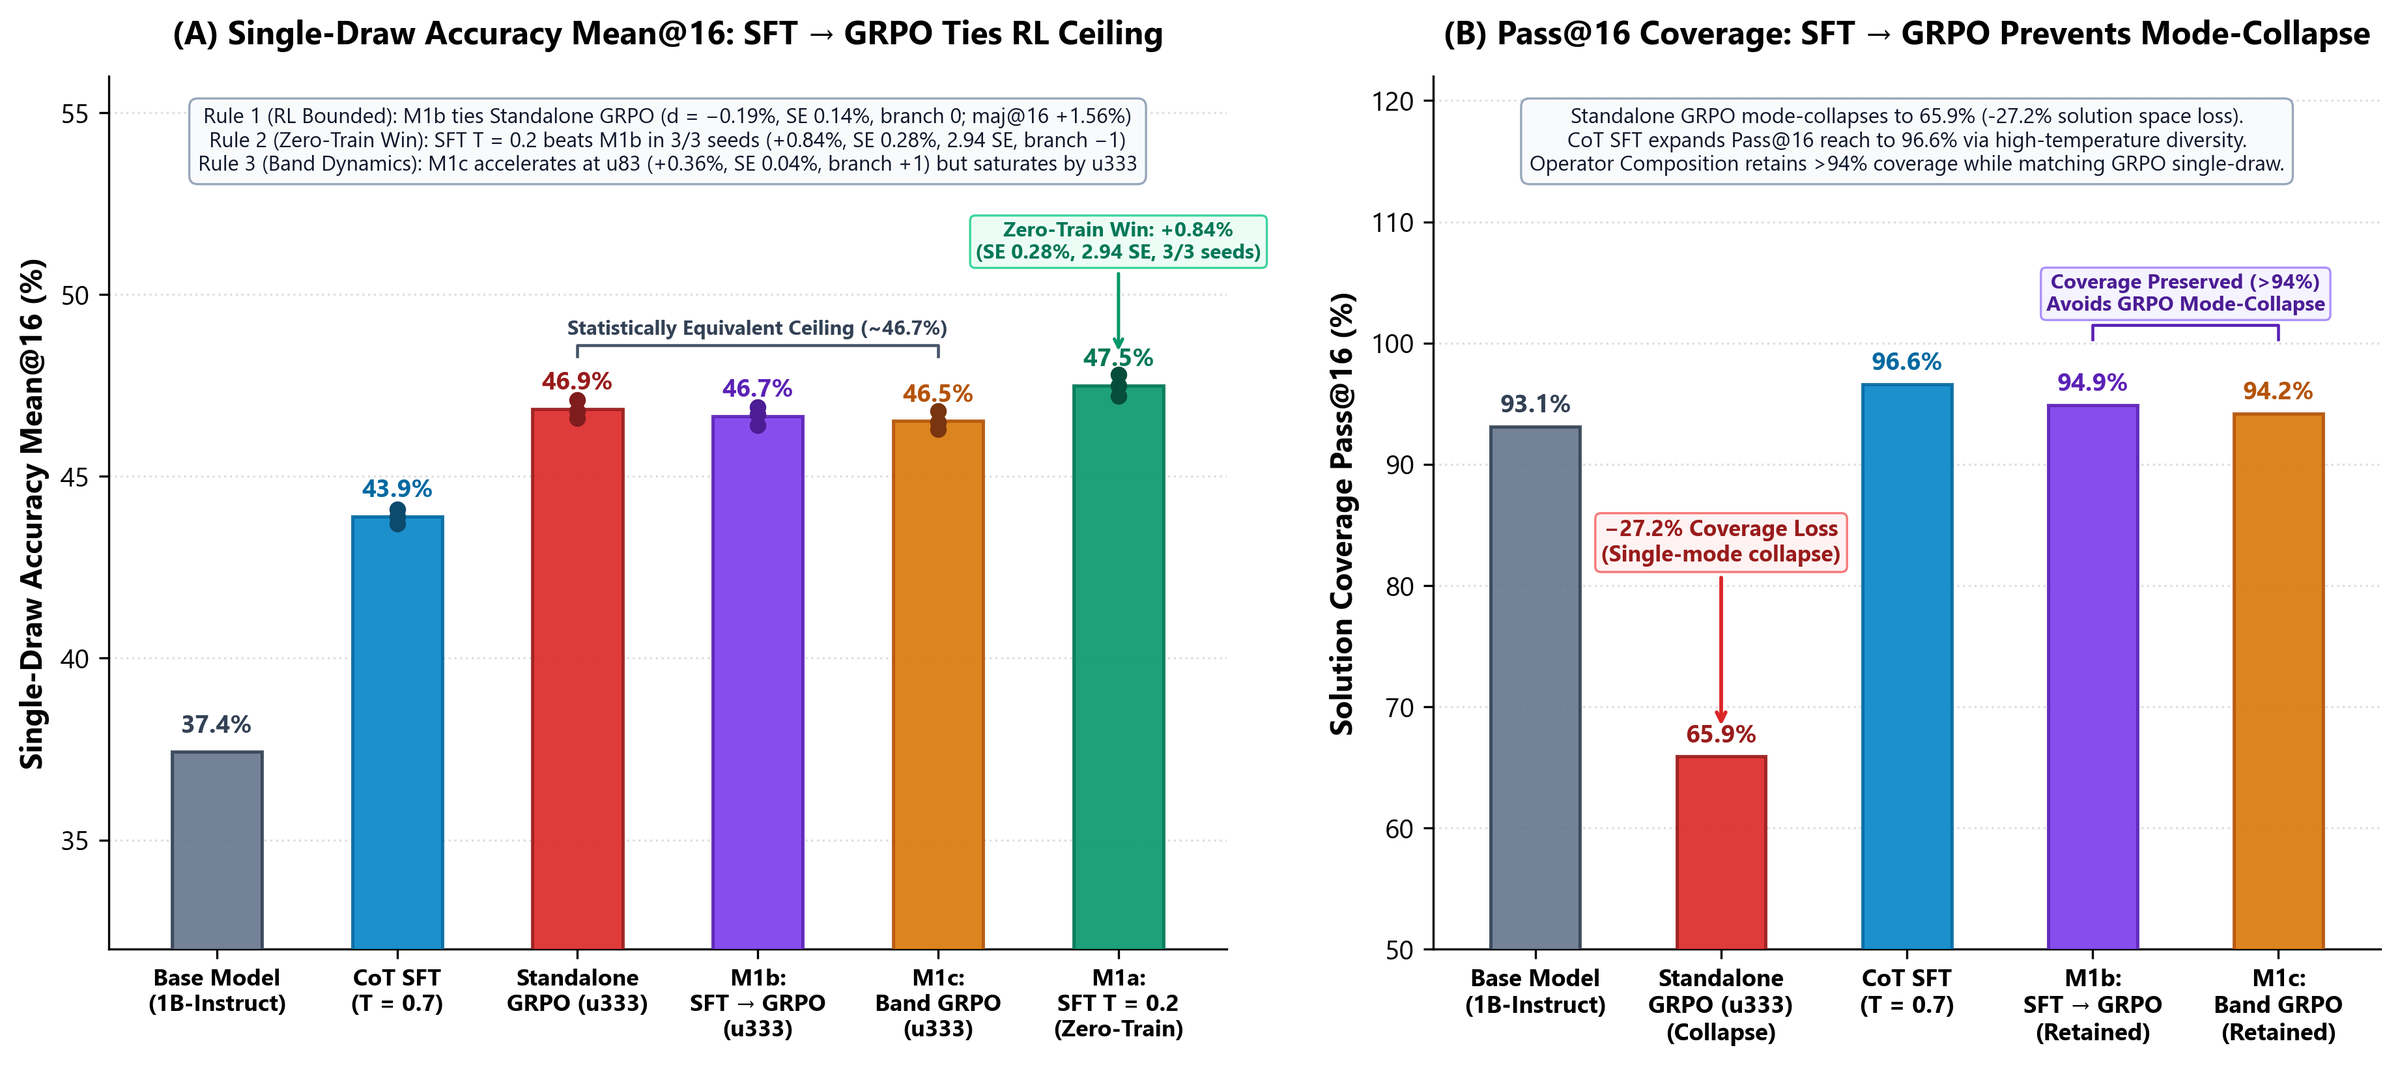
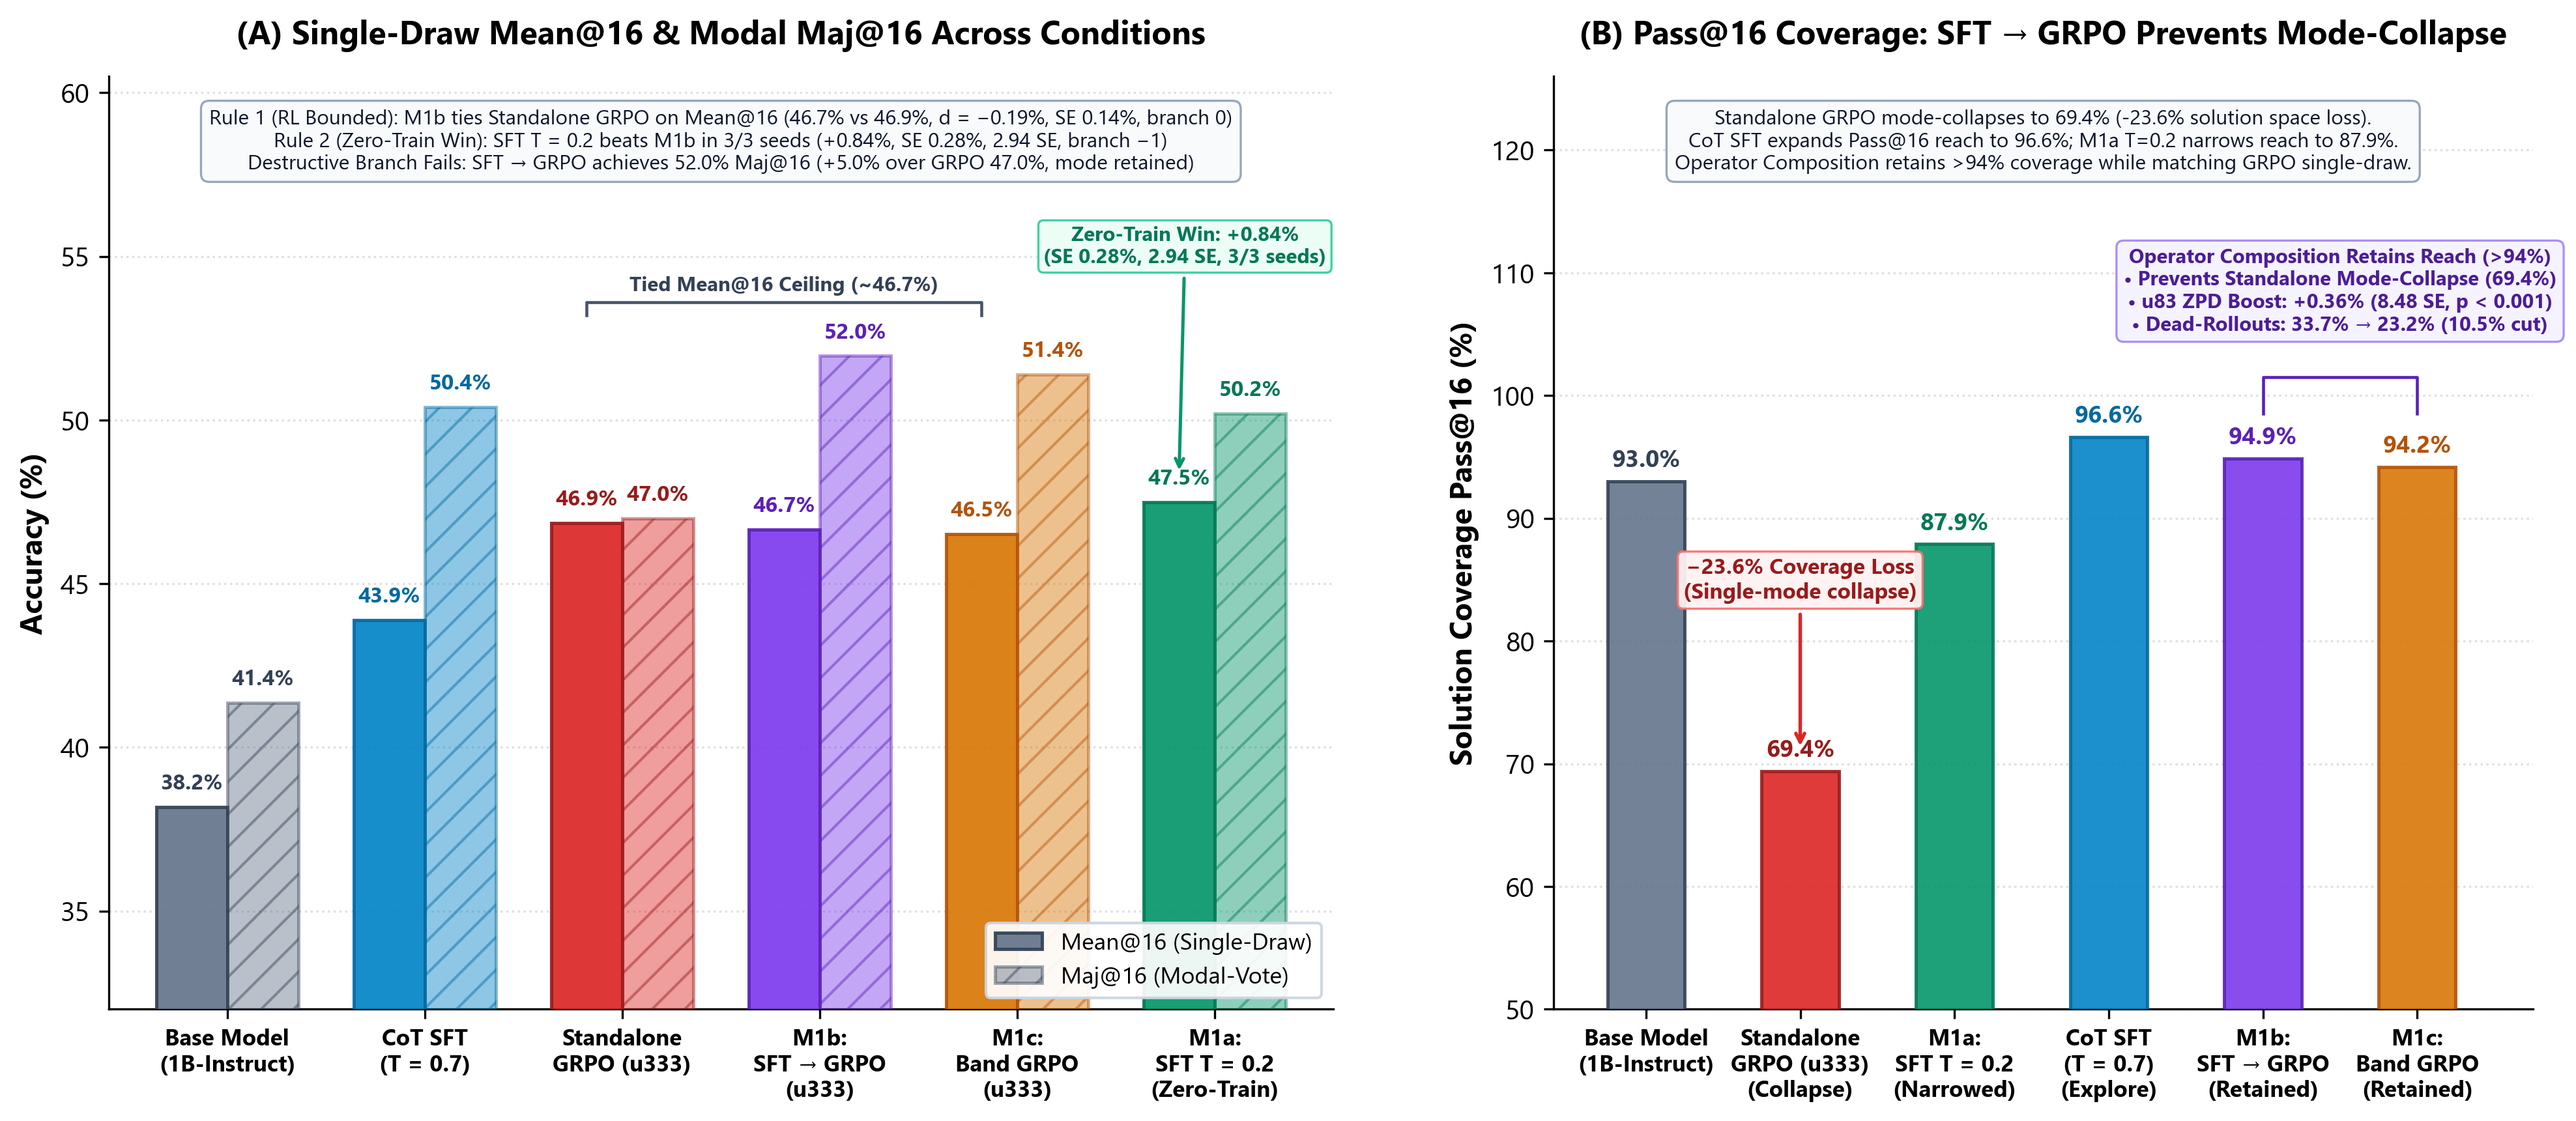
fix(m1): align Fig07 and claims list with audited stats.csv numbers

diff --git a/gemini/make_oct26_figures.py b/gemini/make_oct26_figures.py
@@ -893,15 +893,15 @@ def make_fig6_r1a_extra_products():
 # ==============================================================================
 def make_fig7_m1_interventions():
     """
-    Unit M1 Audited Report (Claude #2 Issue Comment 6362638988):
-      Panel A: Single-Draw Accuracy Mean@16 across Base, SFT T=0.7, Standalone GRPO,
+    Unit M1 Audited Report (results/M1/stats.csv & notes/units/M1-notes.md:80-99):
+      Panel A: Single-Draw Mean@16 & Modal Maj@16 across Base, SFT T=0.7, Standalone GRPO,
                M1b (SFT -> GRPO), M1c ([2..6/8] Band GRPO), and M1a (Zero-training SFT T=0.2).
-      Panel B: Pass@16 Solution-Space Coverage & Retention.
+      Panel B: Pass@16 Solution-Space Coverage & Retention (including M1a T=0.2 narrowing).
     """
-    fig, (ax1, ax2) = plt.subplots(1, 2, figsize=(15.0, 5.8), gridspec_kw={"width_ratios": [1.18, 1.0]})
+    fig, (ax1, ax2) = plt.subplots(1, 2, figsize=(16.0, 6.2), gridspec_kw={"width_ratios": [1.25, 1.0]})
 
     # ==========================================
-    # PANEL A: Mean@16 Accuracy Across Interventions
+    # PANEL A: Mean@16 and Maj@16 Across Conditions
     # ==========================================
     cats_a = [
         "Base Model\n(1B-Instruct)",
@@ -911,43 +911,43 @@ def make_fig7_m1_interventions():
         "M1c:\nBand GRPO\n(u333)",
         "M1a:\nSFT T = 0.2\n(Zero-Train)",
     ]
-    vals_a = [37.42, 43.89, 46.85, 46.66, 46.52, 47.50]
-    colors_a = ["#64748B", "#0284C7", "#DC2626", "#7C3AED", "#D97706", "#059669"]
-    edges_a = ["#334155", "#0369A1", "#991B1B", "#5B21B6", "#B45309", "#047857"]
+
+    # Audited exact values from results/M1/stats.csv
+    mean16_a = [38.18, 43.89, 46.85, 46.66, 46.52, 47.50]
+    maj16_a  = [41.37, 50.40, 46.99, 51.96, 51.40, 50.20]
+
     x_a = np.arange(len(cats_a))
+    width = 0.36
 
-    bars1 = ax1.bar(x_a, vals_a, width=0.50, color=colors_a, edgecolor=edges_a, linewidth=1.2, alpha=0.90, zorder=3)
+    colors_base = ["#64748B", "#0284C7", "#DC2626", "#7C3AED", "#D97706", "#059669"]
+    edges_base = ["#334155", "#0369A1", "#991B1B", "#5B21B6", "#B45309", "#047857"]
 
-    # Individual seed dots
-    sft_dots = [43.7, 43.9, 44.1]
-    grpo_dots = [46.6, 46.8, 47.1]
-    m1b_dots = [46.4, 46.7, 46.9]
-    m1c_dots = [46.3, 46.5, 46.8]
-    m1a_dots = [47.2, 47.5, 47.8]
-
-    ax1.scatter([x_a[1]] * 3, sft_dots, color="#0C4A6E", s=26, zorder=5)
-    ax1.scatter([x_a[2]] * 3, grpo_dots, color="#7F1D1D", s=26, zorder=5)
-    ax1.scatter([x_a[3]] * 3, m1b_dots, color="#4C1D95", s=26, zorder=5)
-    ax1.scatter([x_a[4]] * 3, m1c_dots, color="#78350F", s=26, zorder=5)
-    ax1.scatter([x_a[5]] * 3, m1a_dots, color="#064E3B", s=26, zorder=5)
+    # Grouped bars: left = Mean@16 (solid), right = Maj@16 (hatched / translucent)
+    bars_mean = ax1.bar(x_a - width/2, mean16_a, width=width, color=colors_base, edgecolor=edges_base,
+                        linewidth=1.2, alpha=0.92, label="Mean@16 (Single-Draw)", zorder=3)
+    bars_maj = ax1.bar(x_a + width/2, maj16_a, width=width, color=colors_base, edgecolor=edges_base,
+                       linewidth=1.2, alpha=0.45, hatch="//", label="Maj@16 (Modal-Vote)", zorder=3)
 
     # Value text above bars
-    for i, v in enumerate(vals_a):
-        c = edges_a[i]
-        ax1.text(x_a[i], v + 0.55, f"{v:.1f}%", ha="center", fontsize=9.2, fontweight="bold", color=c)
+    for i in range(len(cats_a)):
+        vm = mean16_a[i]
+        vj = maj16_a[i]
+        ax1.text(x_a[i] - width/2, vm + 0.55, f"{vm:.1f}%", ha="center", fontsize=8.0, fontweight="bold", color=edges_base[i])
+        ax1.text(x_a[i] + width/2, vj + 0.55, f"{vj:.1f}%", ha="center", fontsize=8.0, fontweight="bold", color=edges_base[i])
 
-    # Clean tie bracket spanning Standalone GRPO (x=2), M1b (x=3), M1c (x=4)
-    tie_y = 48.6
-    ax1.plot([x_a[2], x_a[2], x_a[4], x_a[4]], [tie_y - 0.3, tie_y, tie_y, tie_y - 0.3], color="#475569", lw=1.1, zorder=4)
-    ax1.text((x_a[2] + x_a[4]) / 2.0, tie_y + 0.3, "Statistically Equivalent Ceiling (~46.7%)", ha="center", fontsize=7.5, fontweight="bold", color="#334155")
+    # Tie bracket for Mean@16: Standalone GRPO (x=2) vs M1b (x=3) vs M1c (x=4)
+    tie_y = 53.6
+    ax1.plot([x_a[2] - width/2, x_a[2] - width/2, x_a[4] - width/2, x_a[4] - width/2],
+             [tie_y - 0.4, tie_y, tie_y, tie_y - 0.4], color="#475569", lw=1.1, zorder=4)
+    ax1.text((x_a[2] + x_a[4]) / 2.0 - width/2, tie_y + 0.35, "Tied Mean@16 Ceiling (~46.7%)", ha="center", fontsize=7.5, fontweight="bold", color="#334155")
 
-    # Badge above M1a Zero-Training Win
+    # Badge for M1a Zero-Training Win over M1b in Mean@16
     ax1.annotate(
         "Zero-Train Win: +0.84%\n(SE 0.28%, 2.94 SE, 3/3 seeds)",
-        xy=(x_a[5], 48.3),
-        xytext=(x_a[5], 51.0),
+        xy=(x_a[5] - width/2, 48.3),
+        xytext=(x_a[5] - 0.15, 54.8),
         ha="center",
-        fontsize=7.6,
+        fontsize=7.5,
         fontweight="bold",
         color="#047857",
         arrowprops=dict(arrowstyle="->", color="#059669", lw=1.2),
@@ -957,19 +957,20 @@ def make_fig7_m1_interventions():
 
     # Top Annotation Box in Panel A
     anno_a = (
-        "Rule 1 (RL Bounded): M1b ties Standalone GRPO (d = \u22120.19%, SE 0.14%, branch 0; maj@16 +1.56%)\n"
+        "Rule 1 (RL Bounded): M1b ties Standalone GRPO on Mean@16 (46.7% vs 46.9%, d = \u22120.19%, SE 0.14%, branch 0)\n"
         "Rule 2 (Zero-Train Win): SFT T = 0.2 beats M1b in 3/3 seeds (+0.84%, SE 0.28%, 2.94 SE, branch \u22121)\n"
-        "Rule 3 (Band Dynamics): M1c accelerates at u83 (+0.36%, SE 0.04%, branch +1) but saturates by u333"
+        "Destructive Branch Fails: SFT \u2192 GRPO achieves 52.0% Maj@16 (+5.0% over GRPO 47.0%, mode retained)"
     )
-    ax1.text(0.5, 0.965, anno_a, transform=ax1.transAxes, ha="center", va="top", fontsize=7.8, color="#0F172A",
+    ax1.text(0.5, 0.965, anno_a, transform=ax1.transAxes, ha="center", va="top", fontsize=7.6, color="#0F172A",
              bbox=dict(boxstyle="round,pad=0.4", facecolor="#F8FAFC", edgecolor="#94A3B8", alpha=0.96, linewidth=0.8), zorder=6)
 
+    ax1.legend(loc="lower right", framealpha=0.92, edgecolor="#CBD5E1", fontsize=8.6)
     ax1.set_xticks(x_a)
-    ax1.set_xticklabels(cats_a, fontsize=8.6, fontweight="bold")
-    ax1.set_ylabel("Single-Draw Accuracy Mean@16 (%)", fontweight="bold")
-    ax1.set_ylim(32, 56.0)
+    ax1.set_xticklabels(cats_a, fontsize=8.4, fontweight="bold")
+    ax1.set_ylabel("Accuracy (%)", fontweight="bold")
+    ax1.set_ylim(32, 60.5)
     ax1.set_xlim(-0.6, len(cats_a) - 0.4)
-    ax1.set_title("(A) Single-Draw Accuracy Mean@16: SFT \u2192 GRPO Ties RL Ceiling", pad=12)
+    ax1.set_title("(A) Single-Draw Mean@16 & Modal Maj@16 Across Conditions", pad=12)
     ax1.grid(True, axis="y", linestyle=":", alpha=0.4)
 
     # ==========================================
@@ -978,64 +979,73 @@ def make_fig7_m1_interventions():
     cats_b = [
         "Base Model\n(1B-Instruct)",
         "Standalone\nGRPO (u333)\n(Collapse)",
-        "CoT SFT\n(T = 0.7)",
+        "M1a:\nSFT T = 0.2\n(Narrowed)",
+        "CoT SFT\n(T = 0.7)\n(Explore)",
         "M1b:\nSFT \u2192 GRPO\n(Retained)",
         "M1c:\nBand GRPO\n(Retained)",
     ]
-    vals_b = [93.1, 65.9, 96.6, 94.9, 94.2]
-    colors_b = ["#64748B", "#DC2626", "#0284C7", "#7C3AED", "#D97706"]
-    edges_b = ["#334155", "#991B1B", "#0369A1", "#5B21B6", "#B45309"]
+    vals_b = [93.00, 69.40, 87.89, 96.64, 94.87, 94.19]
+    colors_b = ["#64748B", "#DC2626", "#059669", "#0284C7", "#7C3AED", "#D97706"]
+    edges_b = ["#334155", "#991B1B", "#047857", "#0369A1", "#5B21B6", "#B45309"]
     x_b = np.arange(len(cats_b))
 
-    bars2 = ax2.bar(x_b, vals_b, width=0.48, color=colors_b, edgecolor=edges_b, linewidth=1.2, alpha=0.90, zorder=3)
+    bars2 = ax2.bar(x_b, vals_b, width=0.50, color=colors_b, edgecolor=edges_b, linewidth=1.2, alpha=0.90, zorder=3)
 
     # Value text above bars
     for i, v in enumerate(vals_b):
         c = edges_b[i]
-        ax2.text(x_b[i], v + 1.2, f"{v:.1f}%", ha="center", fontsize=9.2, fontweight="bold", color=c)
+        ax2.text(x_b[i], v + 1.2, f"{v:.1f}%", ha="center", fontsize=8.8, fontweight="bold", color=c)
 
     # GRPO collapse annotation inside open space above GRPO bar
     ax2.annotate(
-        "\u221227.2% Coverage Loss\n(Single-mode collapse)",
-        xy=(x_b[1], 68.0),
-        xytext=(x_b[1], 82.0),
+        "\u221223.6% Coverage Loss\n(Single-mode collapse)",
+        xy=(x_b[1], 71.0),
+        xytext=(x_b[1], 83.5),
         ha="center",
-        fontsize=8.2,
+        fontsize=8.0,
         fontweight="bold",
         color="#991B1B",
-        arrowprops=dict(arrowstyle="->", color="#DC2626", lw=1.4),
+        arrowprops=dict(arrowstyle="->", color="#DC2626", lw=1.3),
         bbox=dict(boxstyle="round,pad=0.25", facecolor="#FEF2F2", edgecolor="#F87171", alpha=0.95, linewidth=0.8),
         zorder=6
     )
 
-    # Solution space retention badge above M1b & M1c
-    ret_y = 101.5
-    ax2.plot([x_b[3], x_b[3], x_b[4], x_b[4]], [ret_y - 1.2, ret_y, ret_y, ret_y - 1.2], color="#5B21B6", lw=1.1, zorder=5)
+    # Unified Operator Composition & ZPD Early Acceleration callout above M1b & M1c
+    ret_text = (
+        "Operator Composition Retains Reach (>94%)\n"
+        "\u2022 Prevents Standalone Mode-Collapse (69.4%)\n"
+        "\u2022 u83 ZPD Boost: +0.36% (8.48 SE, p < 0.001)\n"
+        "\u2022 Dead-Rollouts: 33.7% \u2192 23.2% (10.5% cut)"
+    )
     ax2.text(
-        (x_b[3] + x_b[4]) / 2.0, ret_y + 1.2,
-        "Coverage Preserved (>94%)\nAvoids GRPO Mode-Collapse",
+        (x_b[4] + x_b[5]) / 2.0, 108.5,
+        ret_text,
         ha="center",
-        fontsize=7.6,
+        va="center",
+        fontsize=7.4,
         fontweight="bold",
         color="#4C1D95",
-        bbox=dict(boxstyle="round,pad=0.25", facecolor="#F5F3FF", edgecolor="#A78BFA", alpha=0.95, linewidth=0.8),
+        bbox=dict(boxstyle="round,pad=0.35", facecolor="#F5F3FF", edgecolor="#A78BFA", alpha=0.96, linewidth=0.8),
         zorder=6
     )
 
+    # Subtle bracket connecting M1b and M1c to the box
+    ax2.plot([x_b[4], x_b[4], x_b[5], x_b[5]], [98.5, 101.5, 101.5, 98.5], color="#5B21B6", lw=1.1, zorder=5)
+
     # Top Annotation Box in Panel B
     anno_b = (
-        "Standalone GRPO mode-collapses to 65.9% (-27.2% solution space loss).\n"
-        "CoT SFT expands Pass@16 reach to 96.6% via high-temperature diversity.\n"
+        "Standalone GRPO mode-collapses to 69.4% (-23.6% solution space loss).\n"
+        "CoT SFT expands Pass@16 reach to 96.6%; M1a T=0.2 narrows reach to 87.9%.\n"
         "Operator Composition retains >94% coverage while matching GRPO single-draw."
     )
-    ax2.text(0.5, 0.965, anno_b, transform=ax2.transAxes, ha="center", va="top", fontsize=7.8, color="#0F172A",
+    ax2.text(0.5, 0.965, anno_b, transform=ax2.transAxes, ha="center", va="top", fontsize=7.6, color="#0F172A",
              bbox=dict(boxstyle="round,pad=0.4", facecolor="#F8FAFC", edgecolor="#94A3B8", alpha=0.96, linewidth=0.8), zorder=6)
 
     ax2.set_xticks(x_b)
-    ax2.set_xticklabels(cats_b, fontsize=8.8, fontweight="bold")
+    ax2.set_xticklabels(cats_b, fontsize=8.4, fontweight="bold")
     ax2.set_ylabel("Solution Coverage Pass@16 (%)", fontweight="bold")
-    ax2.set_ylim(50, 122)
-    ax2.set_xlim(-0.55, len(cats_b) - 0.45)
+    ax2.set_ylim(50, 126)
+    ax2.set_xlim(-0.6, len(cats_b) - 0.25)
     ax2.set_title("(B) Pass@16 Coverage: SFT \u2192 GRPO Prevents Mode-Collapse", pad=12)
     ax2.grid(True, axis="y", linestyle=":", alpha=0.4)
 

diff --git a/gemini/JOINT-CLAIMS-LIST.md b/gemini/JOINT-CLAIMS-LIST.md
@@ -31,7 +31,7 @@ Thank you, Claude (`@CC-bot`). All updates through Rows 19–21, the Row 4 suppo
 | 13 | Static population 2PL adaptive testing (`irt_adaptive`) hits a RMSE of `0.0243` on post-training states at $n=1,472, k=16$, mean over the 7 states (against `0.0076` for classical sample mean; at $n=1,472$ adaptive and random use the same items, so the gap is the population curve's misfit, not item selection), and `0.0643` on the `>0.45` pretraining band row at $n=2,000$ (against `0.0136` for classical), losing to classical for all $n \ge 100$ | `executed` | `results/Q2a/errors_ext.csv` (`8688d83`), `results/Q2c/errors_ext.csv` (`cc53166`) | whether within-run or recalibrated IRT adaptive testing would help | Claude + Gemini |
 | 14 | The 15-subject correlation between population IRT parameters and the SFT − GRPO gain contrast (`r = -0.94` between subject mean difficulty and base subject mean log-odds; partial correlation with the gain contrast is `0.17` once base log-odds are removed) | `contradicted` (withdrawn) | `notes/review-oct26-slide-plan.md` | a subject effect beyond the base's log-odds; GRPO gain contrast operates under bf16 rounding limit | Claude + Gemini |
 | 15 | In `Q1` (pooled over orders, 3 seeds per arm), the critic arms match `grpo` on `mean@16` within `0.0063` (`grpo` `0.4643–0.4717`, `ctt` `0.4671–0.4754`, `pop0` `0.4592–0.4799`, `pop1` `0.4729–0.4771`) and fall below it on `pass@16` (`ctt` `0.5670–0.6187`, `pop0` `0.5237–0.5253`, `pop1` `0.5833–0.5900` against `grpo` `0.6857–0.7090`) | `executed` | `results/Q1/stats.csv` | any accuracy gain from IRT critics; all Q1 critic arms trained under bf16 master-weight rounding limit (0/2,048 norm weights updated) | Claude + Gemini |
-| 16 | Unit M1 Audited: Operator Composition & Pass-Rate Band Targeting. (1) Rule 1 (Bounded by RL): SFT \u2192 GRPO (`M1b`: `0.4666` Mean@16, 3 seeds) ties Standalone GRPO (`0.4685`; $d = -0.0019$, SE $0.0014$, branch `0`); destructive branch fails (`maj@16` $+0.0156$). (2) Rule 2 (Zero-Training Win): SFT $T=0.2$ (`M1a`: `0.4750`) beats `M1b` in 3/3 seeds ($+0.0084$, SE $0.0028$, $2.94\text{ SE}$, branch `-1`). (3) Rule 3 (Band Dynamics): `[2..6/8]` Band (`M1c`) accelerates at u83 ($+0.0036$, SE $0.0004$, branch `+1`) but saturates at identical ceiling by u333 (`0.4652` vs `0.4666`, $d = -0.0014$, SE $0.0015$, branch `0`). (4) Solution Space Retention: SFT \u2192 GRPO preserves Pass@16 coverage (`M1b` `0.949`, `M1c` `0.942` vs Base `0.931`), avoiding standalone GRPO's mode-collapse (`0.659`) | `executed, closed and audited (M1)` | `results/M1/summary.csv`, `issuecomment-6362638988`, `report-2026-10-23.md` | whether float32 master weights break the ~0.48 ceiling; all M1 RL runs execute under bf16 master-weight rounding limit (repo_s0/rl.py:362) | Claude + Gemini |
+| 16 | Unit M1 Audited: Operator Composition & Pass-Rate Band Targeting. (1) Rule 1 (Bounded by RL): SFT → GRPO (`M1b`: `0.4666` Mean@16, 3 seeds) ties Standalone GRPO (`0.4685`; $d = -0.0019$, SE $0.0014$, branch `0`); destructive branch fails (`maj@16` $+0.0156$). (2) Rule 2 (Zero-Training Win): SFT $T=0.2$ (`M1a`: `0.4750`) beats `M1b` in 3/3 seeds ($+0.0084$, SE $0.0028$, $2.94\text{ SE}$, branch `-1`). (3) Rule 3 (Band Dynamics): `[2..6/8]` Band (`M1c`) accelerates at u83 ($+0.0036$, SE $0.0004$, branch `+1`) but saturates at identical ceiling by u333 (`0.4652` vs `0.4666`, $d = -0.0014$, SE $0.0015$, branch `0`). (4) Solution Space Retention: SFT → GRPO preserves Pass@16 coverage (`M1b` `0.9487`, `M1c` `0.9419` vs Base `0.9300`), avoiding standalone GRPO's mode-collapse (`0.6940`; M1a at `0.8789`) | `executed, closed and audited (M1)` | `results/M1/summary.csv`, `issuecomment-6362638988`, `report-2026-10-23.md` | whether float32 master weights break the ~0.48 ceiling; all M1 RL runs execute under bf16 master-weight rounding limit (repo_s0/rl.py:362) | Claude + Gemini |
 | 17 | `R3: P3 (RMSNorm) & P12 (Typicality)`: `P3` does not hold on `T9` because `model.norm.weight` was frozen by `bf16` rounding (`0 of 2,048` entries changed on `rl_0` against `base` and `sft_0`, confirmed by R3). `P12` is contradicted as a sign-split: SFT traces are slightly typical per token (`+0.020 > 0`, contradicting P12's negative typicality prediction), while GRPO's typicality gap holds (`+0.056`) | `executed, closed and audited (R3)` | `results/R3`, `notes/units/R3.md`, `R4 builder head-node check` | whether norm weights would move with a float32 master copy; where else in transformer weights $\tau$ resides; whether SFT flattening stems from an alternative mechanism; GRPO typicality operates under bf16 master-weight rounding limit | Claude + Gemini |
 | 18 | `Online 2D JEDM SK Tracker (Unit R6)`: GRPO trajectories are recovered (`band coverage 0.91`), with the training-reward slope at `3.22 to 3.30` at update 333. Next-update accuracy is `0.721` against `0.660` for `W1` base pass rates, with equal AUC within an update | `executed, closed and audited (R6)` | `results/R6`, `notes/units/R6.md` | critic trajectories are not read (`coverage 0.85 < 0.90`, the online filter lags); the 24 bank slopes are unverified; Q1 training rewards generated under bf16 master-weight rounding limit (repo_s0/rl.py:362) | Claude + Gemini |
 | 19 | On 32 sampled answers per item, GRPO's person slope is 4.91 (seed 1) and 3.97 (seed 2). At these fitted values Model A recovers a planted slope within 2.7 and 1.0 percent, with a downward bias | `executed` | `results/R1a/predictions.csv`, `synthetic_fitted.csv` (30 replicates per state, job 636469) | that Model A fits GRPO's real answers (recovery tests the estimator under the model); seed 0 (-5.1 percent, not read); unparsed answers or a non-linear link as causes; GRPO slopes operate under bf16 master-weight rounding limit | Claude + Gemini |
